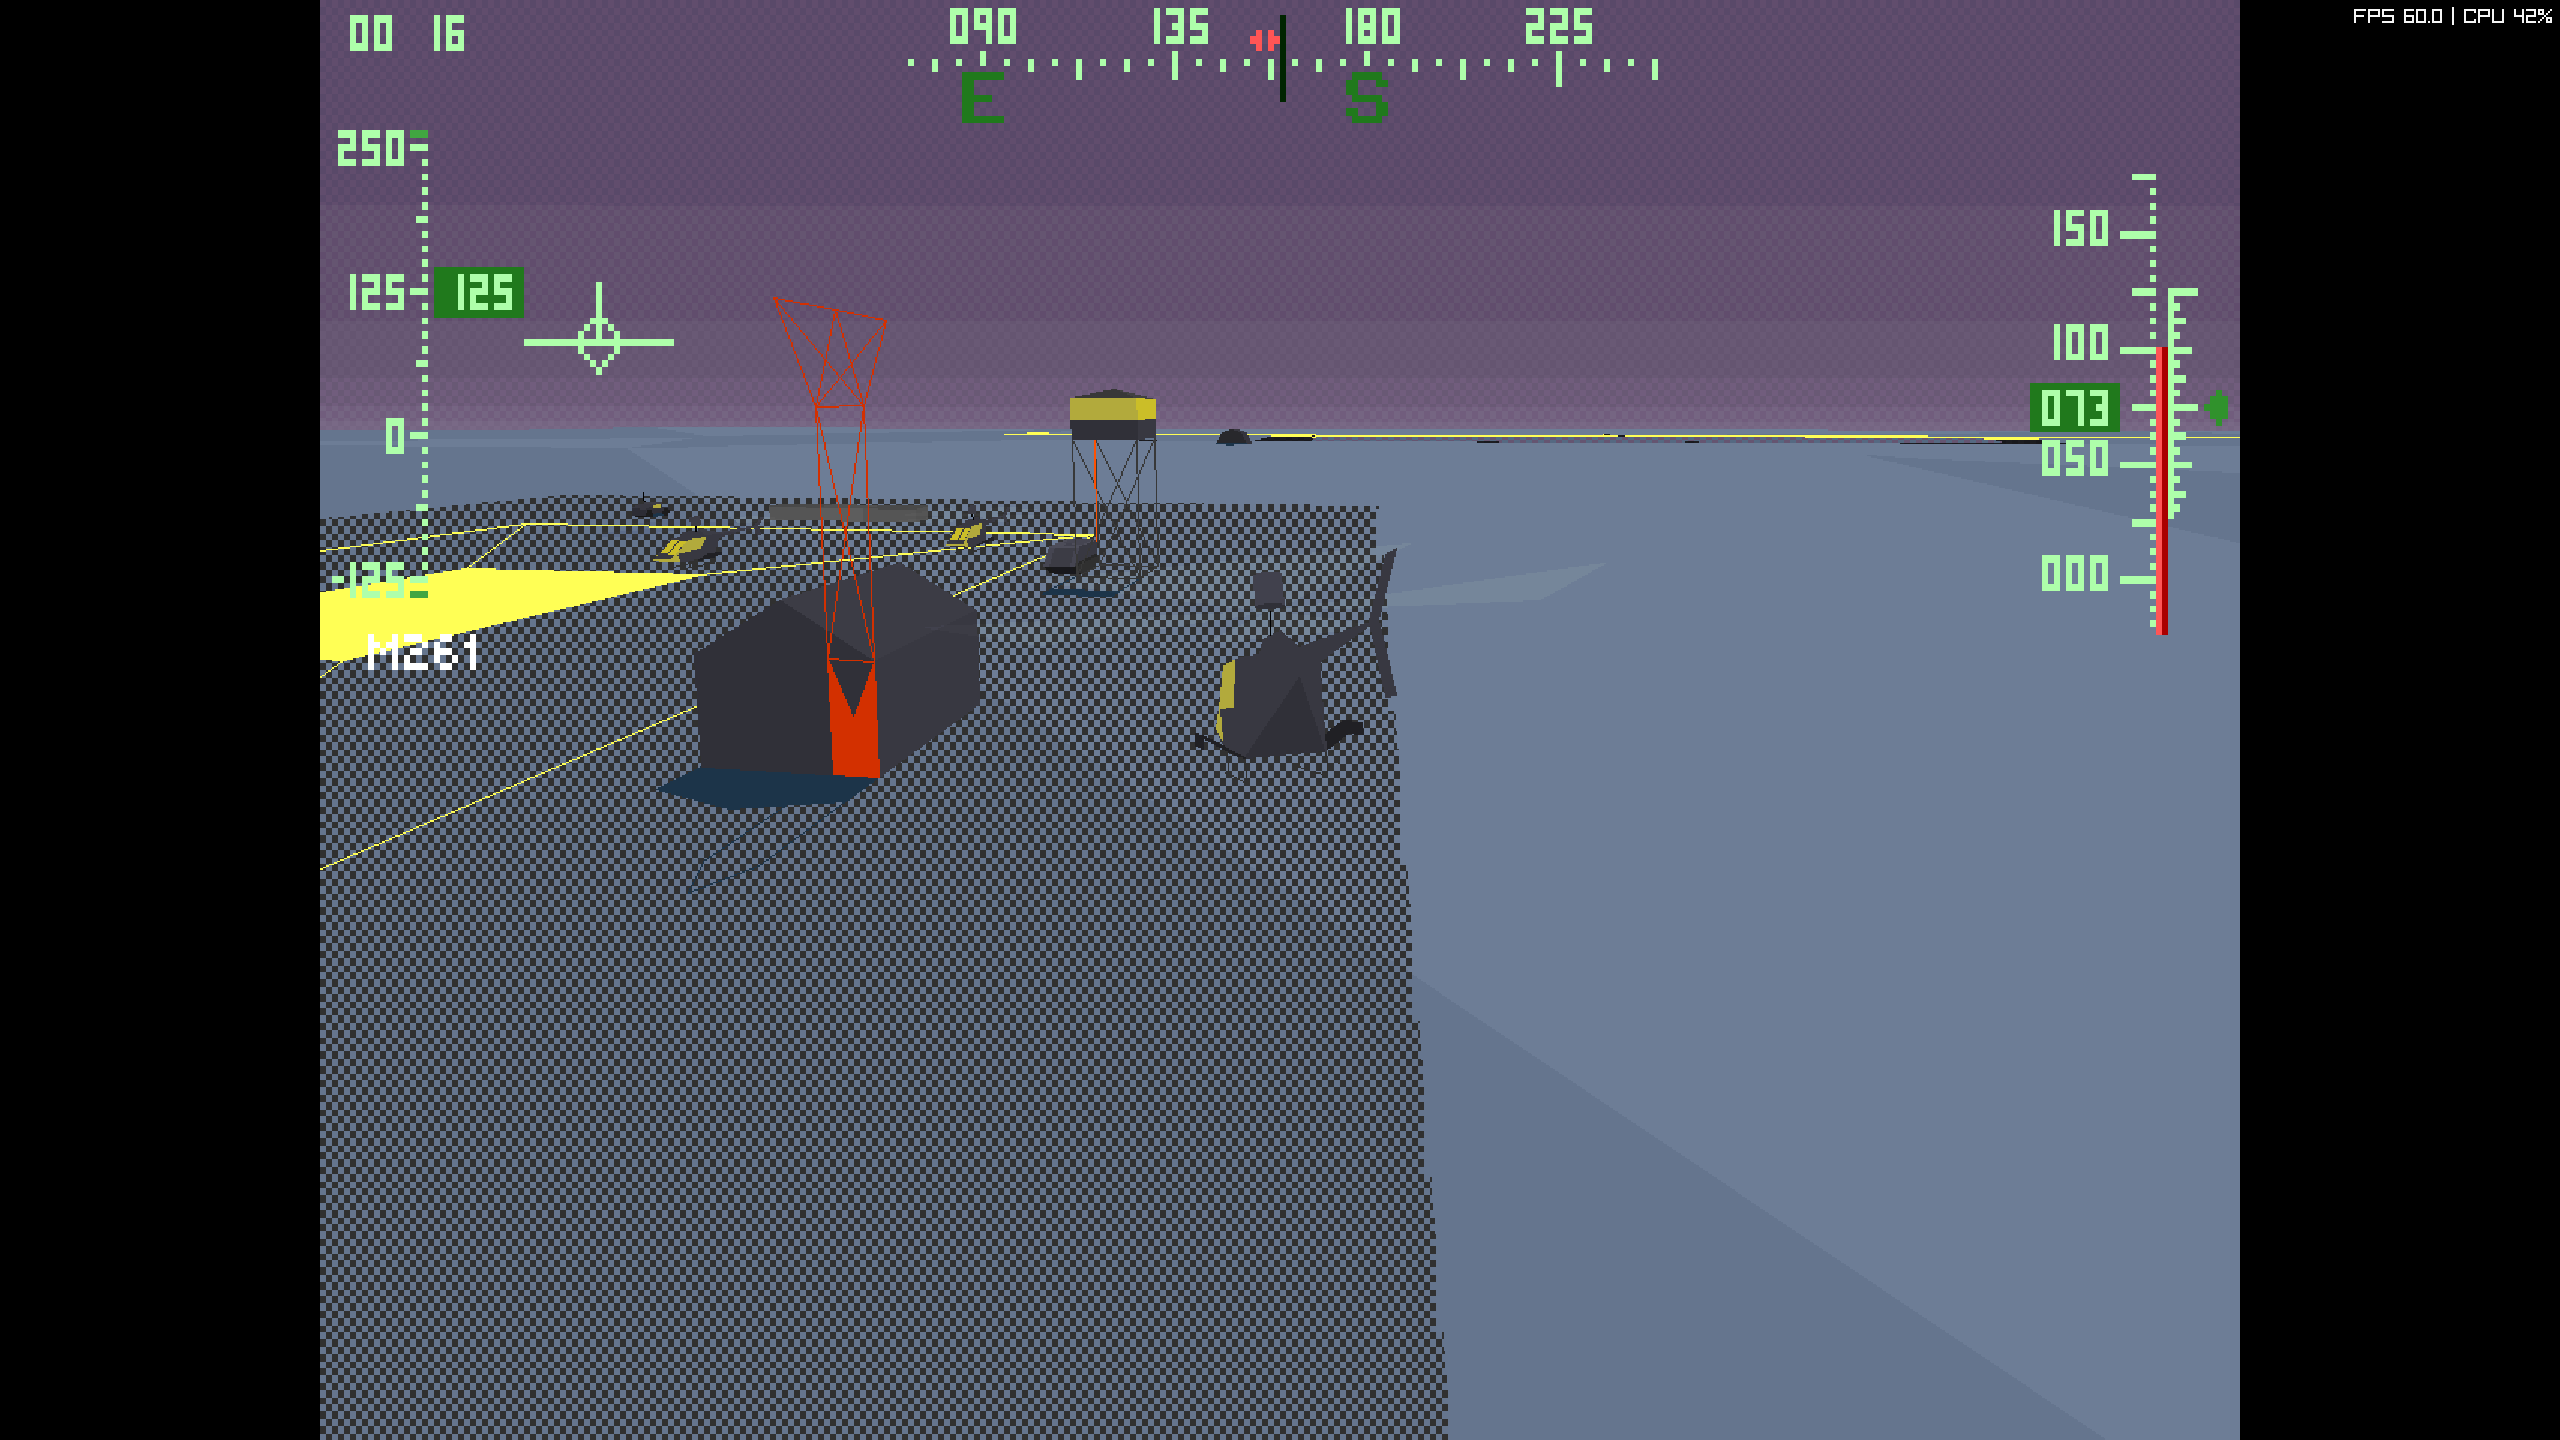
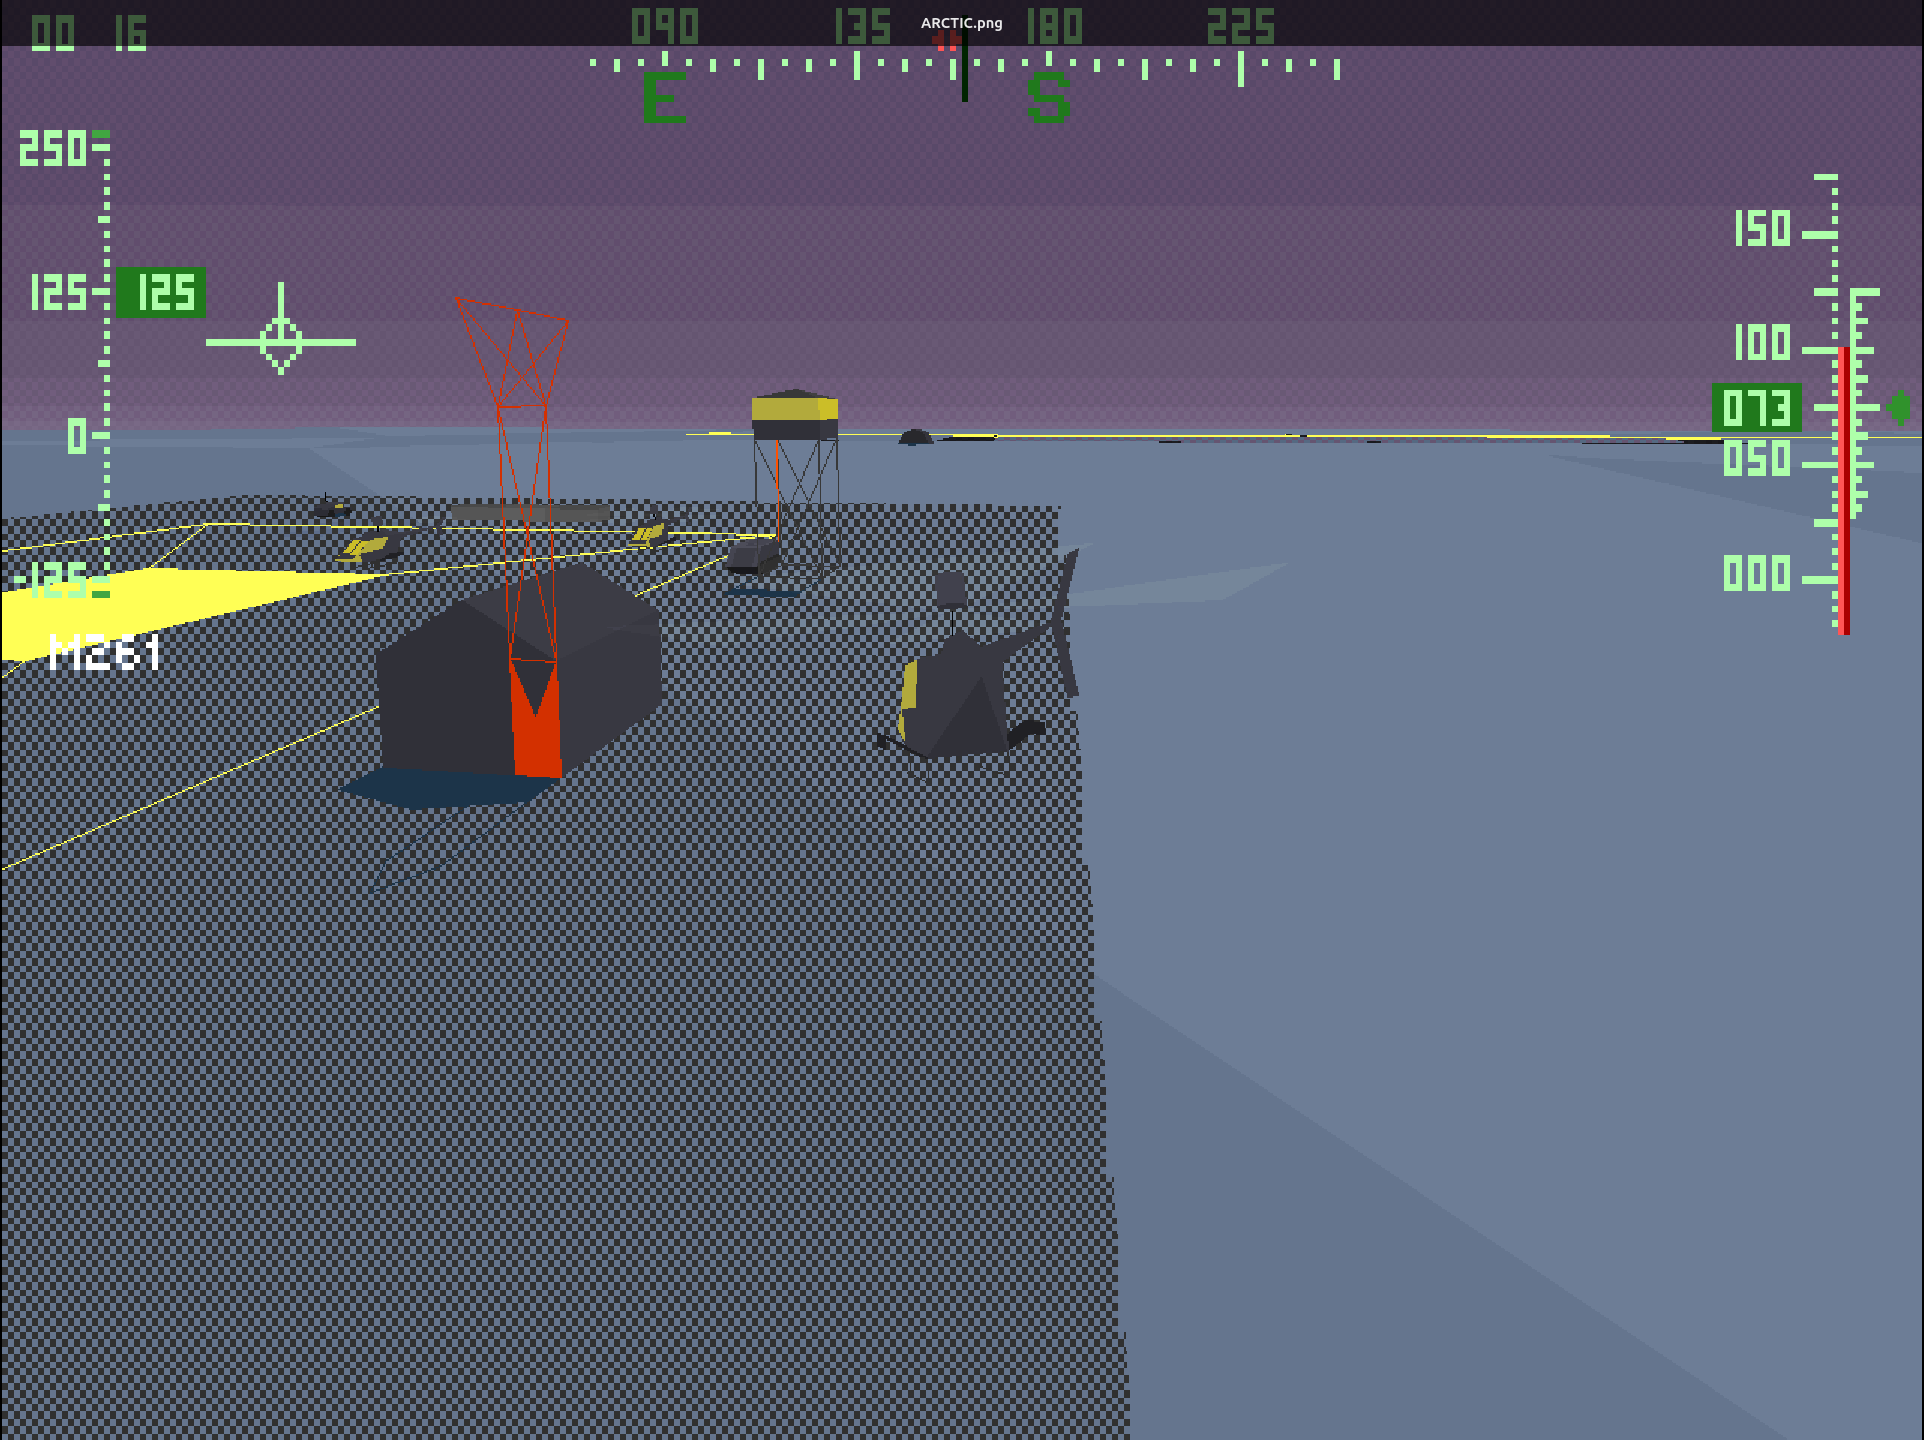
Updated Screenshots section

diff --git a/README.md b/README.md
@@ -54,6 +54,34 @@ Choose your graphics and controls, then **Save & Exit**.
 
 For Raspberry Pi, use a 64-bit Linux installation with a working desktop graphics stack. Hardware GLES support depends on the installed graphics libraries and drivers; see the package’s platform notes.
 
+## Screenshots
+
+Click any screenshot to open the full image.
+
+<p align="center">
+  <a href="docs/screenshots/EUR.png"><img src="docs/screenshots/EUR.png" width="18%" alt="European theatre"></a>
+  <a href="docs/screenshots/PHIL.png"><img src="docs/screenshots/PHIL.png" width="18%" alt="Philippines theatre"></a>
+  <a href="docs/screenshots/ARCTIC.png"><img src="docs/screenshots/ARCTIC.png" width="18%" alt="Arctic theatre"></a>
+  <a href="docs/screenshots/FLIGHT.png"><img src="docs/screenshots/FLIGHT.png" width="18%" alt="In flight"></a>
+  <a href="docs/screenshots/KIOWA.png"><img src="docs/screenshots/KIOWA.png" width="18%" alt="Kiowa helicopter"></a>
+</p>
+
+<p align="center">
+  <a href="docs/screenshots/TARGET_CAM.png"><img src="docs/screenshots/TARGET_CAM.png" width="18%" alt="Target camera"></a>
+  <a href="docs/screenshots/SCUD.png"><img src="docs/screenshots/SCUD.png" width="18%" alt="Scud launcher"></a>
+  <a href="docs/screenshots/SCUD_FROM_HUD.png"><img src="docs/screenshots/SCUD_FROM_HUD.png" width="18%" alt="Scud target from the cockpit"></a>
+  <a href="docs/screenshots/ROCKETS.png"><img src="docs/screenshots/ROCKETS.png" width="18%" alt="Rockets in flight"></a>
+  <a href="docs/screenshots/MAST.png"><img src="docs/screenshots/MAST.png" width="18%" alt="Mast-mounted sight"></a>
+</p>
+
+<p align="center">
+  <a href="docs/screenshots/SplashScreenGs2000.png"><img src="docs/screenshots/SplashScreenGs2000.png" width="18%" alt="Title"></a>
+  <a href="docs/screenshots/BASE_OVERVIEW.png"><img src="docs/screenshots/BASE_OVERVIEW.png" width="18%" alt="Airbase overview"></a>
+  <a href="docs/screenshots/BRIDGE.png"><img src="docs/screenshots/BRIDGE.png" width="18%" alt="Bridge and river"></a>
+  <a href="docs/screenshots/BRIEFING.png"><img src="docs/screenshots/BRIEFING.png" width="18%" alt="Mission briefing"></a>
+  <a href="docs/screenshots/RESOLUTION.png"><img src="docs/screenshots/RESOLUTION.png" width="18%" alt="Rendering resolution"></a>
+</p>
+
 ## Controller setup (Full HOTAS Support)
 
 Select your joystick or HOTAS, use **Basic Controls** to assign the main axes and buttons, and use **Advanced Controls** for individual commands. **Collective Mode** chooses how the controller changes lift or height; the on-screen preview helps check assignments before flying.
@@ -172,22 +200,6 @@ See [testing instructions](test/TESTING.md), [save-format documentation](distrib
 Please include the version/build, operating system, relevant graphics or controller settings, and the shortest steps that reproduce the problem. For an in-mission issue, attach the related `.g2r` recording when available and note the mission time. Include any automatically generated report archive relevant to the failure.
 
 Do not upload original game data files with bug reports or contributions.
-
-<!-- Maintainer: add the repository’s issue tracker link here. -->
-
-## Screenshots
-
-### Mission preparation
-
-Choose aircraft, fuel and ordnance for the flight.
-
-![Squadron aircraft and weapon loadout screen](docs/screenshots/LoadoutMenu.png)
-
-### The familiar introduction
-
-The original title sequence, rendered using the player’s own game data.
-
-![Gunship 2000 title sequence running in GoShip 2000](docs/screenshots/SplashScreenGs2000.png)
 
 ## Licence and credits
 
